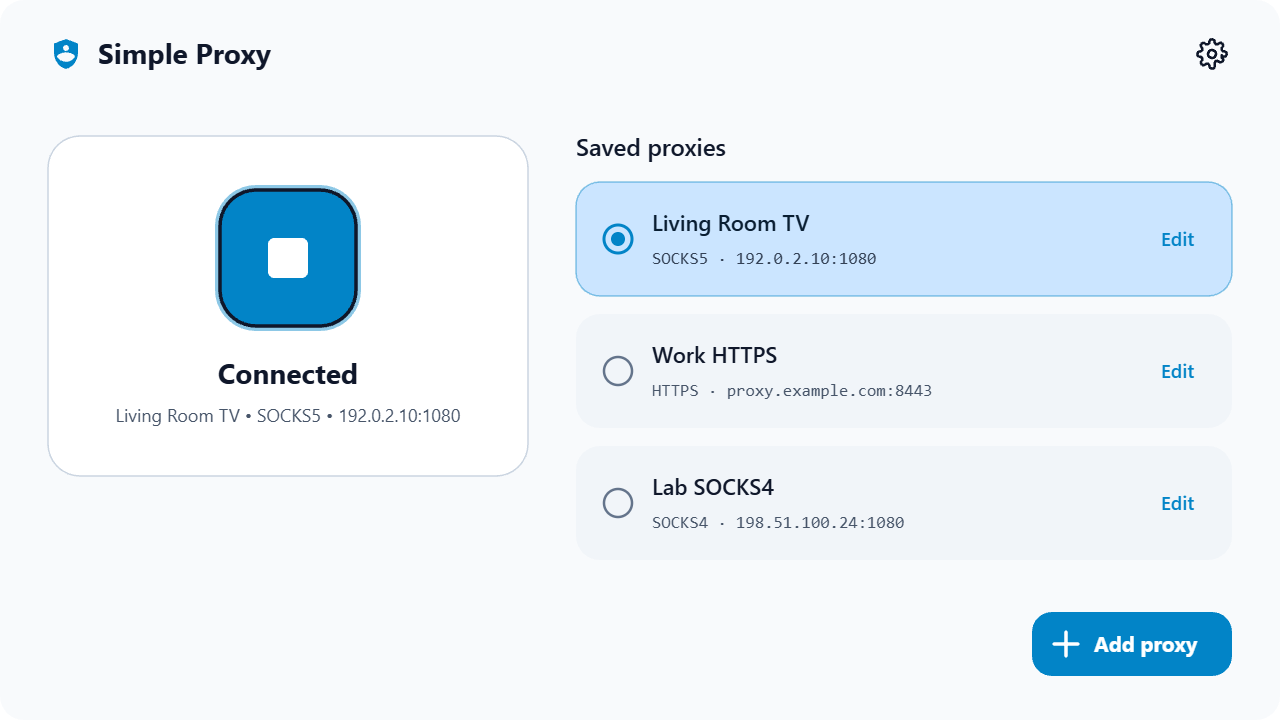
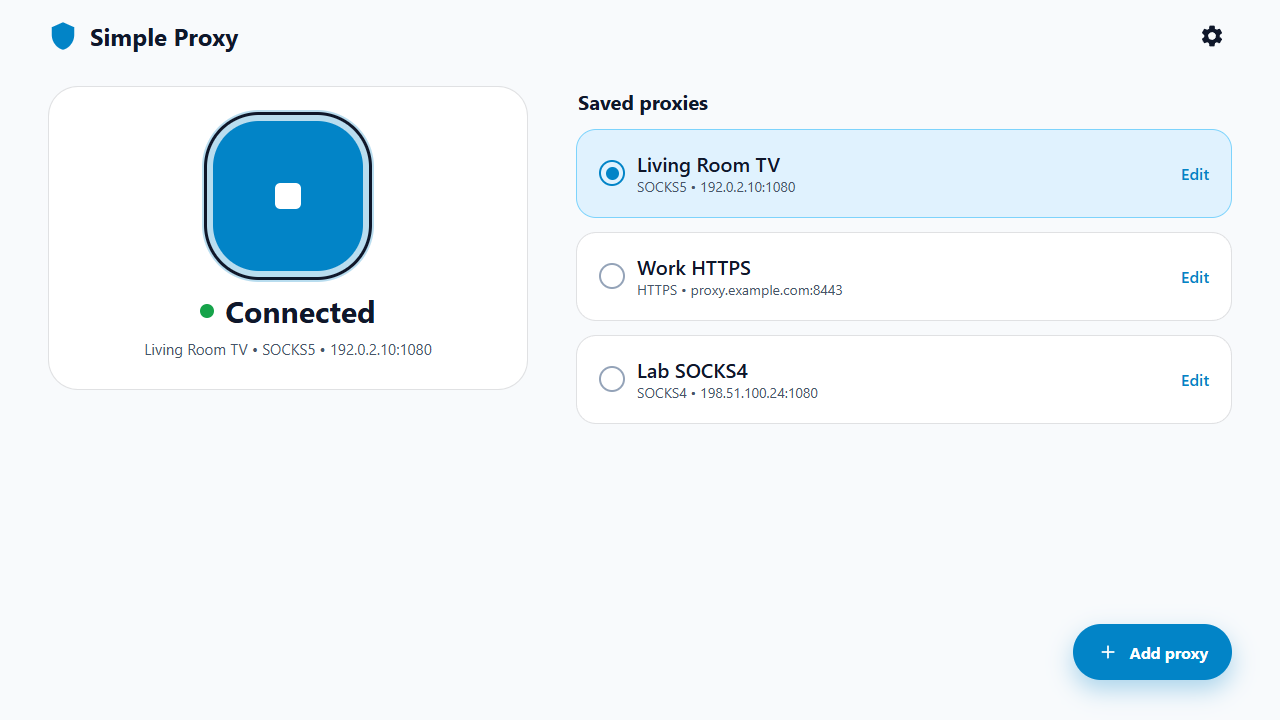
docs: refresh app screenshots

diff --git a/README.md b/README.md
@@ -15,12 +15,14 @@
 
 ## 📸 Screenshots
 
-| Home (Connected) | Options & Full-Width DNS | Split Tunneling |
-| :---: | :---: | :---: |
-| <img src="docs/screenshots/home-connected.png" width="230" alt="Home Screen" /> | <img src="docs/screenshots/options-settings.png" width="230" alt="Options Screen" /> | <img src="docs/screenshots/split-tunneling.png" width="230" alt="Split Tunneling" /> |
+| Home (Connected) | Options | Security | Diagnostics |
+| :---: | :---: | :---: | :---: |
+| <img src="docs/screenshots/home-connected.png" width="200" alt="Home Screen" /> | <img src="docs/screenshots/options-settings.png" width="200" alt="Options Screen" /> | <img src="docs/screenshots/security.png" width="200" alt="Security Screen" /> | <img src="docs/screenshots/diagnostics.png" width="200" alt="Diagnostics Screen" /> |
 
 <p align="center">
-  <img src="docs/screenshots/android-tv.png" width="640" alt="Android TV Mode" />
+  <img src="docs/screenshots/split-tunneling.png" width="210" alt="Split Tunneling" />
+  &nbsp;&nbsp;&nbsp;
+  <img src="docs/screenshots/android-tv.png" width="540" alt="Android TV Mode" />
 </p>
 
 ---
